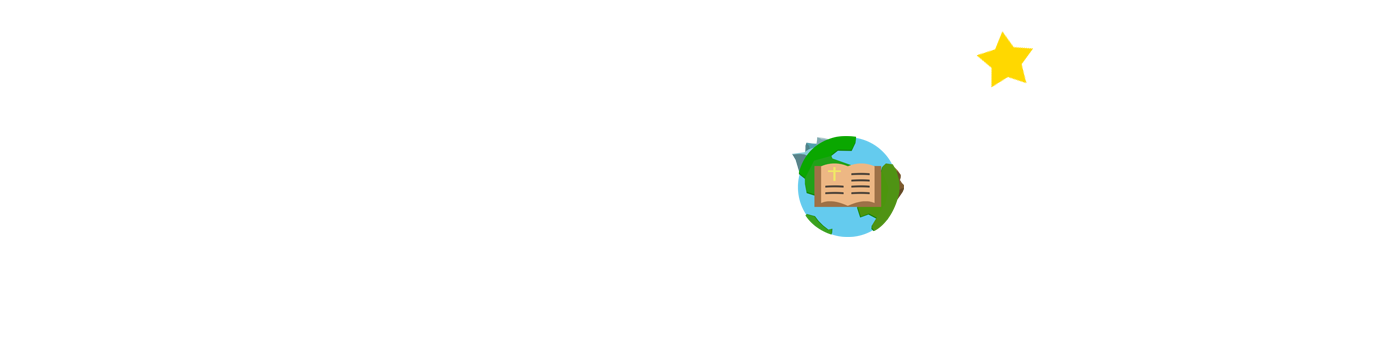
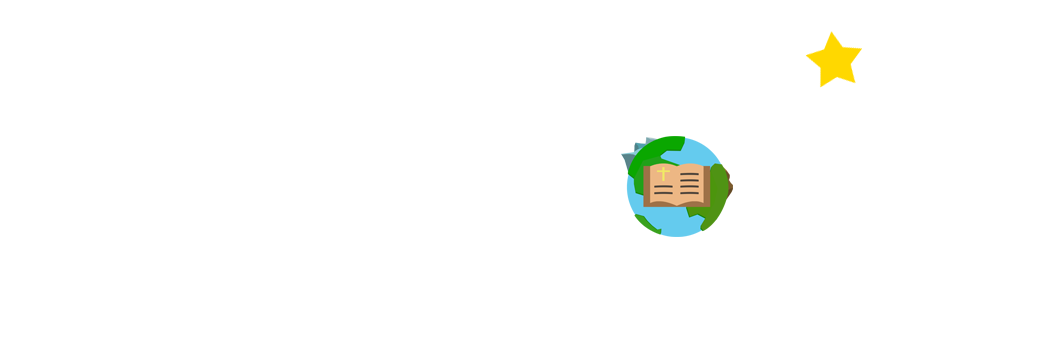
c

Changed region(s): [[0.562, 0.3714, 0.7181, 0.6857], [0.6868, 0.0857, 0.8117, 0.2571]]

diff --git a/index.html b/index.html
@@ -39,7 +39,7 @@
             <span class="icon-bar"></span>
             <span class="icon-bar"></span>
           </button>
-          <div class="col-xs-9 centered">
+          <div class="centered">
           <a href="index.html">
               <img src="assets/img/title.png" alt="title">
           </a>
